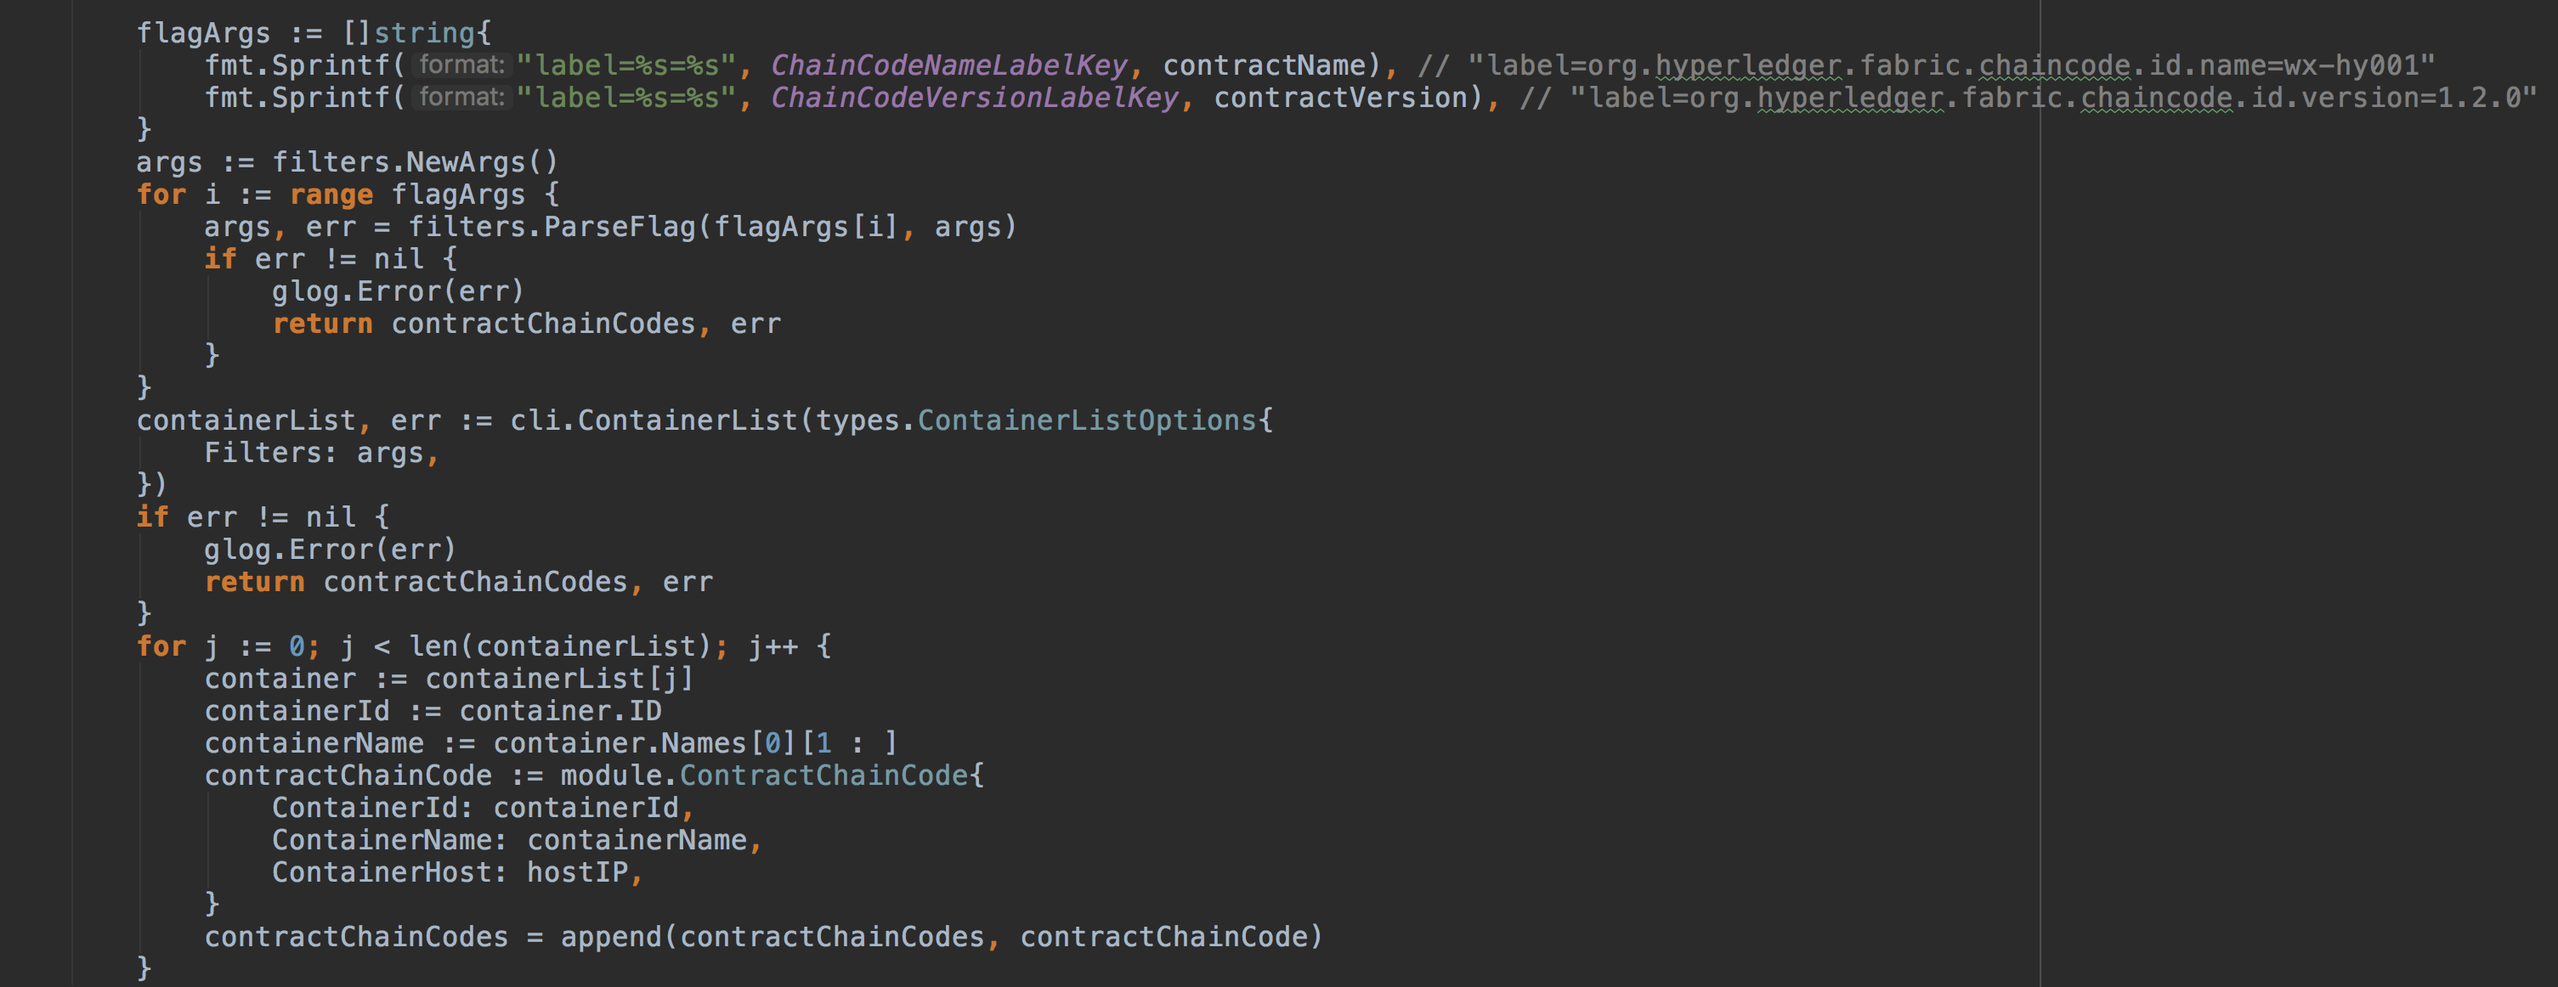
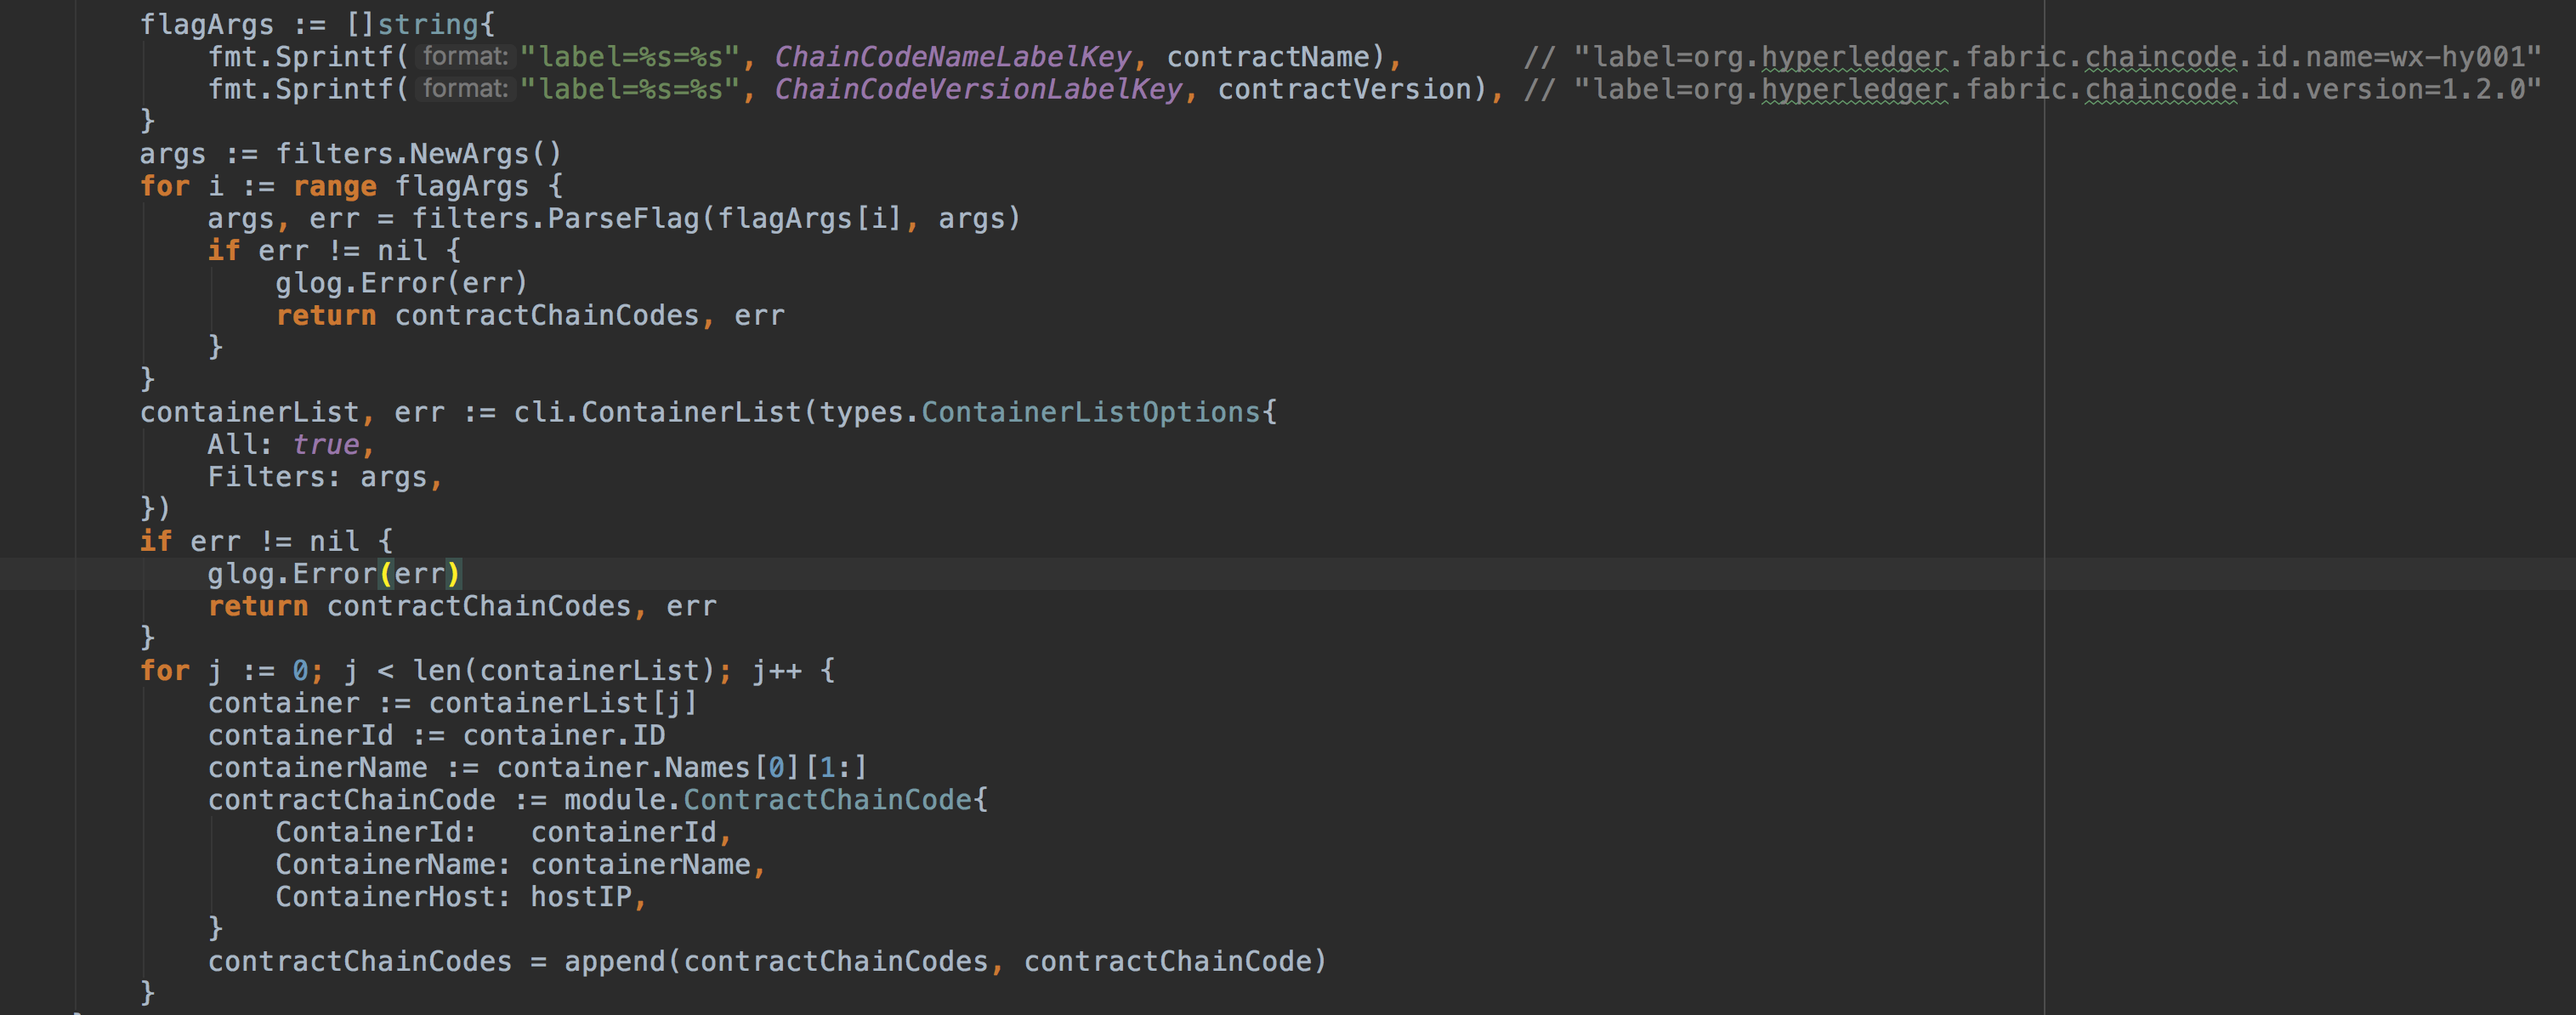
Site updated: 2018-12-14 20:32:03

diff --git a/2018/12/10/common-label/index.html b/2018/12/10/common-label/index.html
@@ -9,22 +9,22 @@
   
 
   <meta name="viewport" content="width=device-width, initial-scale=1, maximum-scale=1">
-  <meta name="description" content="docker cli使用举例12345docker ps --filter &amp;quot;label=org.hyperledger.fabric.chaincode.id.name=test-chaincode&amp;quot; --filter &amp;quot;label=org.hyperledger.fabric.chaincode.id.version=v0.0.1&amp;quot;或者docker ps">
+  <meta name="description" content="docker cli使用举例12345docker ps -a --filter &amp;quot;label=org.hyperledger.fabric.chaincode.id.name=test-chaincode&amp;quot; --filter &amp;quot;label=org.hyperledger.fabric.chaincode.id.version=v0.0.1&amp;quot;或者docker">
 <meta name="keywords" content="Docker,Kubernetes,Common,Label">
 <meta property="og:type" content="article">
 <meta property="og:title" content="容器标签使用小记">
 <meta property="og:url" content="http://yoursite.com/2018/12/10/common-label/index.html">
 <meta property="og:site_name" content="Singh Wang">
-<meta property="og:description" content="docker cli使用举例12345docker ps --filter &amp;quot;label=org.hyperledger.fabric.chaincode.id.name=test-chaincode&amp;quot; --filter &amp;quot;label=org.hyperledger.fabric.chaincode.id.version=v0.0.1&amp;quot;或者docker ps">
+<meta property="og:description" content="docker cli使用举例12345docker ps -a --filter &amp;quot;label=org.hyperledger.fabric.chaincode.id.name=test-chaincode&amp;quot; --filter &amp;quot;label=org.hyperledger.fabric.chaincode.id.version=v0.0.1&amp;quot;或者docker">
 <meta property="og:locale" content="default">
 <meta property="og:image" content="http://yoursite.com/2018/12/10/common-label/docker_label.png">
 <meta property="og:image" content="http://yoursite.com/2018/12/10/common-label/docker_label_go.png">
 <meta property="og:image" content="http://yoursite.com/2018/12/10/common-label/kubernetes_label.png">
 <meta property="og:image" content="http://yoursite.com/2018/12/10/common-label/kubernetes_label_go.png">
-<meta property="og:updated_time" content="2018-12-10T03:48:11.389Z">
+<meta property="og:updated_time" content="2018-12-14T12:19:14.590Z">
 <meta name="twitter:card" content="summary">
 <meta name="twitter:title" content="容器标签使用小记">
-<meta name="twitter:description" content="docker cli使用举例12345docker ps --filter &amp;quot;label=org.hyperledger.fabric.chaincode.id.name=test-chaincode&amp;quot; --filter &amp;quot;label=org.hyperledger.fabric.chaincode.id.version=v0.0.1&amp;quot;或者docker ps">
+<meta name="twitter:description" content="docker cli使用举例12345docker ps -a --filter &amp;quot;label=org.hyperledger.fabric.chaincode.id.name=test-chaincode&amp;quot; --filter &amp;quot;label=org.hyperledger.fabric.chaincode.id.version=v0.0.1&amp;quot;或者docker">
 <meta name="twitter:image" content="http://yoursite.com/2018/12/10/common-label/docker_label.png">
   
     <link rel="alternative" href="/atom.xml" title="Singh Wang" type="application/atom+xml">
@@ -203,7 +203,7 @@
     
     <div class="article-entry" itemprop="articleBody">
       
-        <h1 id="docker-cli使用举例"><a href="#docker-cli使用举例" class="headerlink" title="docker cli使用举例"></a>docker cli使用举例</h1><figure class="highlight plain"><table><tr><td class="gutter"><pre><span class="line">1</span><br><span class="line">2</span><br><span class="line">3</span><br><span class="line">4</span><br><span class="line">5</span><br></pre></td><td class="code"><pre><span class="line">docker ps --filter &quot;label=org.hyperledger.fabric.chaincode.id.name=test-chaincode&quot; --filter &quot;label=org.hyperledger.fabric.chaincode.id.version=v0.0.1&quot;</span><br><span class="line"></span><br><span class="line">或者</span><br><span class="line"></span><br><span class="line">docker ps -f &quot;label=org.hyperledger.fabric.chaincode.id.name=test-chaincode&quot; -f &quot;label=org.hyperledger.fabric.chaincode.id.version=v0.0.1&quot;</span><br></pre></td></tr></table></figure>
+        <h1 id="docker-cli使用举例"><a href="#docker-cli使用举例" class="headerlink" title="docker cli使用举例"></a>docker cli使用举例</h1><figure class="highlight plain"><table><tr><td class="gutter"><pre><span class="line">1</span><br><span class="line">2</span><br><span class="line">3</span><br><span class="line">4</span><br><span class="line">5</span><br></pre></td><td class="code"><pre><span class="line">docker ps -a --filter &quot;label=org.hyperledger.fabric.chaincode.id.name=test-chaincode&quot; --filter &quot;label=org.hyperledger.fabric.chaincode.id.version=v0.0.1&quot;</span><br><span class="line"></span><br><span class="line">或者</span><br><span class="line"></span><br><span class="line">docker ps -a -f &quot;label=org.hyperledger.fabric.chaincode.id.name=test-chaincode&quot; -f &quot;label=org.hyperledger.fabric.chaincode.id.version=v0.0.1&quot;</span><br></pre></td></tr></table></figure>
 <p>如下图所示：</p>
 <p><img src="/2018/12/10/common-label/docker_label.png" alt="docker_label"></p>
 <h1 id="docker-client-go编码示例"><a href="#docker-client-go编码示例" class="headerlink" title="docker client go编码示例"></a>docker client go编码示例</h1><figure class="highlight plain"><table><tr><td class="gutter"><pre><span class="line">1</span><br><span class="line">2</span><br><span class="line">3</span><br><span class="line">4</span><br><span class="line">5</span><br><span class="line">6</span><br><span class="line">7</span><br><span class="line">8</span><br><span class="line">9</span><br><span class="line">10</span><br><span class="line">11</span><br><span class="line">12</span><br><span class="line">13</span><br><span class="line">14</span><br><span class="line">15</span><br><span class="line">16</span><br><span class="line">17</span><br><span class="line">18</span><br><span class="line">19</span><br><span class="line">20</span><br><span class="line">21</span><br><span class="line">22</span><br><span class="line">23</span><br><span class="line">24</span><br><span class="line">25</span><br><span class="line">26</span><br><span class="line">27</span><br><span class="line">28</span><br><span class="line">29</span><br><span class="line">30</span><br><span class="line">31</span><br><span class="line">32</span><br><span class="line">33</span><br><span class="line">34</span><br><span class="line">35</span><br><span class="line">36</span><br><span class="line">37</span><br><span class="line">38</span><br><span class="line">39</span><br></pre></td><td class="code"><pre><span class="line">...</span><br><span class="line">import (</span><br><span class="line">	&quot;github.com/docker/docker/api/types&quot;</span><br><span class="line"></span><br><span class="line">	&quot;github.com/docker/docker/api/types/filters&quot;</span><br><span class="line">)</span><br><span class="line">...</span><br><span class="line">...</span><br><span class="line">		flagArgs := []string&#123;</span><br><span class="line">			fmt.Sprintf(&quot;label=%s=%s&quot;, ChainCodeNameLabelKey, contractName), // &quot;label=org.hyperledger.fabric.chaincode.id.name=wx-hy001&quot;</span><br><span class="line">			fmt.Sprintf(&quot;label=%s=%s&quot;, ChainCodeVersionLabelKey, contractVersion), // &quot;label=org.hyperledger.fabric.chaincode.id.version=1.2.0&quot;</span><br><span class="line">		&#125;</span><br><span class="line">		args := filters.NewArgs()</span><br><span class="line">		for i := range flagArgs &#123;</span><br><span class="line">			args, err = filters.ParseFlag(flagArgs[i], args)</span><br><span class="line">			if err != nil &#123;</span><br><span class="line">				glog.Error(err)</span><br><span class="line">				return contractChainCodes, err</span><br><span class="line">			&#125;</span><br><span class="line">		&#125;</span><br><span class="line">		containerList, err := cli.ContainerList(types.ContainerListOptions&#123;</span><br><span class="line">			Filters: args,</span><br><span class="line">		&#125;)</span><br><span class="line">		if err != nil &#123;</span><br><span class="line">			glog.Error(err)</span><br><span class="line">			return contractChainCodes, err</span><br><span class="line">		&#125;</span><br><span class="line">		for j := 0; j &lt; len(containerList); j++ &#123;</span><br><span class="line">			container := containerList[j]</span><br><span class="line">			containerId := container.ID</span><br><span class="line">			containerName := container.Names[0][1 : ]</span><br><span class="line">			contractChainCode := module.ContractChainCode&#123;</span><br><span class="line">				ContainerId: containerId,</span><br><span class="line">				ContainerName: containerName,</span><br><span class="line">				ContainerHost: hostIP,</span><br><span class="line">			&#125;</span><br><span class="line">			contractChainCodes = append(contractChainCodes, contractChainCode)</span><br><span class="line">		&#125;</span><br><span class="line">...</span><br></pre></td></tr></table></figure>

diff --git a/index.html b/index.html
@@ -257,7 +257,7 @@
     
     <div class="article-entry" itemprop="articleBody">
       
-        <h1 id="docker-cli使用举例"><a href="#docker-cli使用举例" class="headerlink" title="docker cli使用举例"></a>docker cli使用举例</h1><figure class="highlight plain"><table><tr><td class="gutter"><pre><span class="line">1</span><br><span class="line">2</span><br><span class="line">3</span><br><span class="line">4</span><br><span class="line">5</span><br></pre></td><td class="code"><pre><span class="line">docker ps --filter &quot;label=org.hyperledger.fabric.chaincode.id.name=test-chaincode&quot; --filter &quot;label=org.hyperledger.fabric.chaincode.id.version=v0.0.1&quot;</span><br><span class="line"></span><br><span class="line">或者</span><br><span class="line"></span><br><span class="line">docker ps -f &quot;label=org.hyperledger.fabric.chaincode.id.name=test-chaincode&quot; -f &quot;label=org.hyperledger.fabric.chaincode.id.version=v0.0.1&quot;</span><br></pre></td></tr></table></figure>
+        <h1 id="docker-cli使用举例"><a href="#docker-cli使用举例" class="headerlink" title="docker cli使用举例"></a>docker cli使用举例</h1><figure class="highlight plain"><table><tr><td class="gutter"><pre><span class="line">1</span><br><span class="line">2</span><br><span class="line">3</span><br><span class="line">4</span><br><span class="line">5</span><br></pre></td><td class="code"><pre><span class="line">docker ps -a --filter &quot;label=org.hyperledger.fabric.chaincode.id.name=test-chaincode&quot; --filter &quot;label=org.hyperledger.fabric.chaincode.id.version=v0.0.1&quot;</span><br><span class="line"></span><br><span class="line">或者</span><br><span class="line"></span><br><span class="line">docker ps -a -f &quot;label=org.hyperledger.fabric.chaincode.id.name=test-chaincode&quot; -f &quot;label=org.hyperledger.fabric.chaincode.id.version=v0.0.1&quot;</span><br></pre></td></tr></table></figure>
 <p>如下图所示：</p>
 <p><img src="/2018/12/10/common-label/docker_label.png" alt="docker_label"></p>
 <h1 id="docker-client-go编码示例"><a href="#docker-client-go编码示例" class="headerlink" title="docker client go编码示例"></a>docker client go编码示例</h1><figure class="highlight plain"><table><tr><td class="gutter"><pre><span class="line">1</span><br><span class="line">2</span><br><span class="line">3</span><br><span class="line">4</span><br><span class="line">5</span><br><span class="line">6</span><br><span class="line">7</span><br><span class="line">8</span><br><span class="line">9</span><br><span class="line">10</span><br><span class="line">11</span><br><span class="line">12</span><br><span class="line">13</span><br><span class="line">14</span><br><span class="line">15</span><br><span class="line">16</span><br><span class="line">17</span><br><span class="line">18</span><br><span class="line">19</span><br><span class="line">20</span><br><span class="line">21</span><br><span class="line">22</span><br><span class="line">23</span><br><span class="line">24</span><br><span class="line">25</span><br><span class="line">26</span><br><span class="line">27</span><br><span class="line">28</span><br><span class="line">29</span><br><span class="line">30</span><br><span class="line">31</span><br><span class="line">32</span><br><span class="line">33</span><br><span class="line">34</span><br><span class="line">35</span><br><span class="line">36</span><br><span class="line">37</span><br><span class="line">38</span><br><span class="line">39</span><br></pre></td><td class="code"><pre><span class="line">...</span><br><span class="line">import (</span><br><span class="line">	&quot;github.com/docker/docker/api/types&quot;</span><br><span class="line"></span><br><span class="line">	&quot;github.com/docker/docker/api/types/filters&quot;</span><br><span class="line">)</span><br><span class="line">...</span><br><span class="line">...</span><br><span class="line">		flagArgs := []string&#123;</span><br><span class="line">			fmt.Sprintf(&quot;label=%s=%s&quot;, ChainCodeNameLabelKey, contractName), // &quot;label=org.hyperledger.fabric.chaincode.id.name=wx-hy001&quot;</span><br><span class="line">			fmt.Sprintf(&quot;label=%s=%s&quot;, ChainCodeVersionLabelKey, contractVersion), // &quot;label=org.hyperledger.fabric.chaincode.id.version=1.2.0&quot;</span><br><span class="line">		&#125;</span><br><span class="line">		args := filters.NewArgs()</span><br><span class="line">		for i := range flagArgs &#123;</span><br><span class="line">			args, err = filters.ParseFlag(flagArgs[i], args)</span><br><span class="line">			if err != nil &#123;</span><br><span class="line">				glog.Error(err)</span><br><span class="line">				return contractChainCodes, err</span><br><span class="line">			&#125;</span><br><span class="line">		&#125;</span><br><span class="line">		containerList, err := cli.ContainerList(types.ContainerListOptions&#123;</span><br><span class="line">			Filters: args,</span><br><span class="line">		&#125;)</span><br><span class="line">		if err != nil &#123;</span><br><span class="line">			glog.Error(err)</span><br><span class="line">			return contractChainCodes, err</span><br><span class="line">		&#125;</span><br><span class="line">		for j := 0; j &lt; len(containerList); j++ &#123;</span><br><span class="line">			container := containerList[j]</span><br><span class="line">			containerId := container.ID</span><br><span class="line">			containerName := container.Names[0][1 : ]</span><br><span class="line">			contractChainCode := module.ContractChainCode&#123;</span><br><span class="line">				ContainerId: containerId,</span><br><span class="line">				ContainerName: containerName,</span><br><span class="line">				ContainerHost: hostIP,</span><br><span class="line">			&#125;</span><br><span class="line">			contractChainCodes = append(contractChainCodes, contractChainCode)</span><br><span class="line">		&#125;</span><br><span class="line">...</span><br></pre></td></tr></table></figure>
